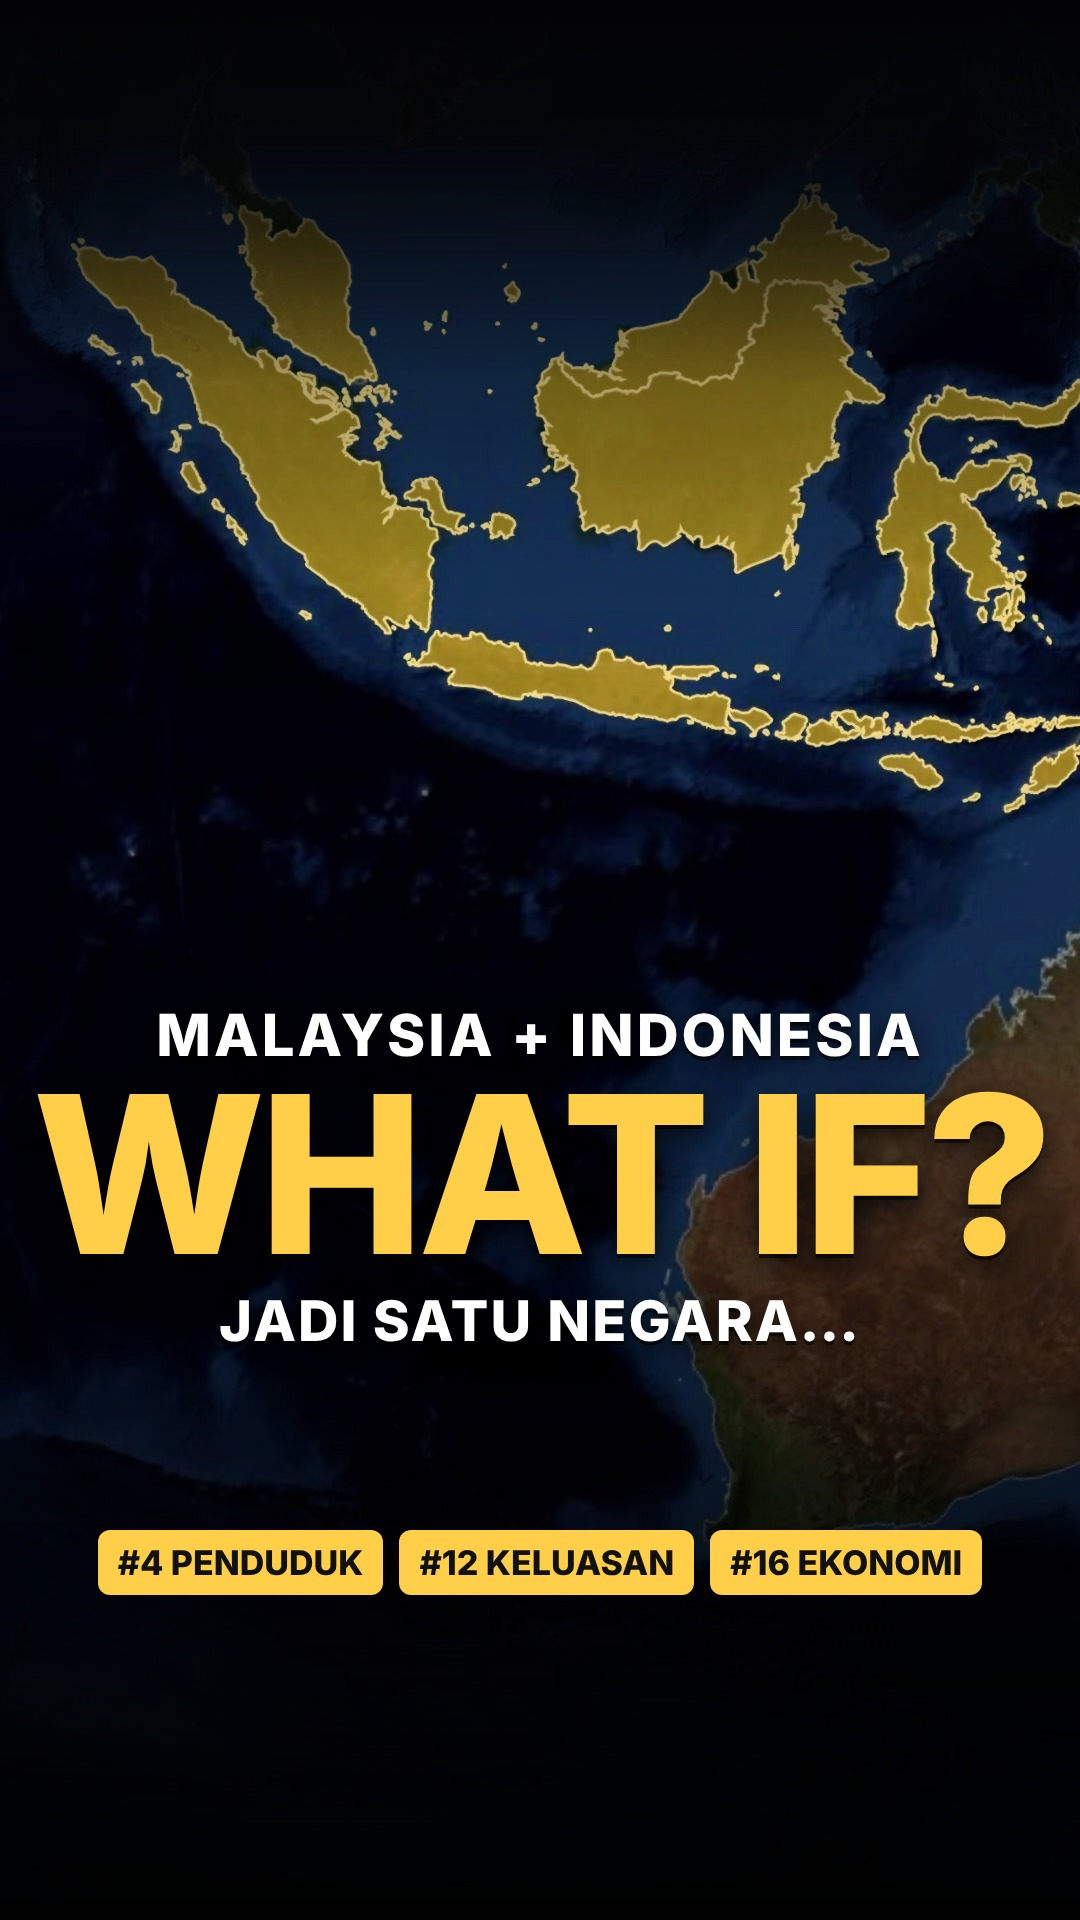
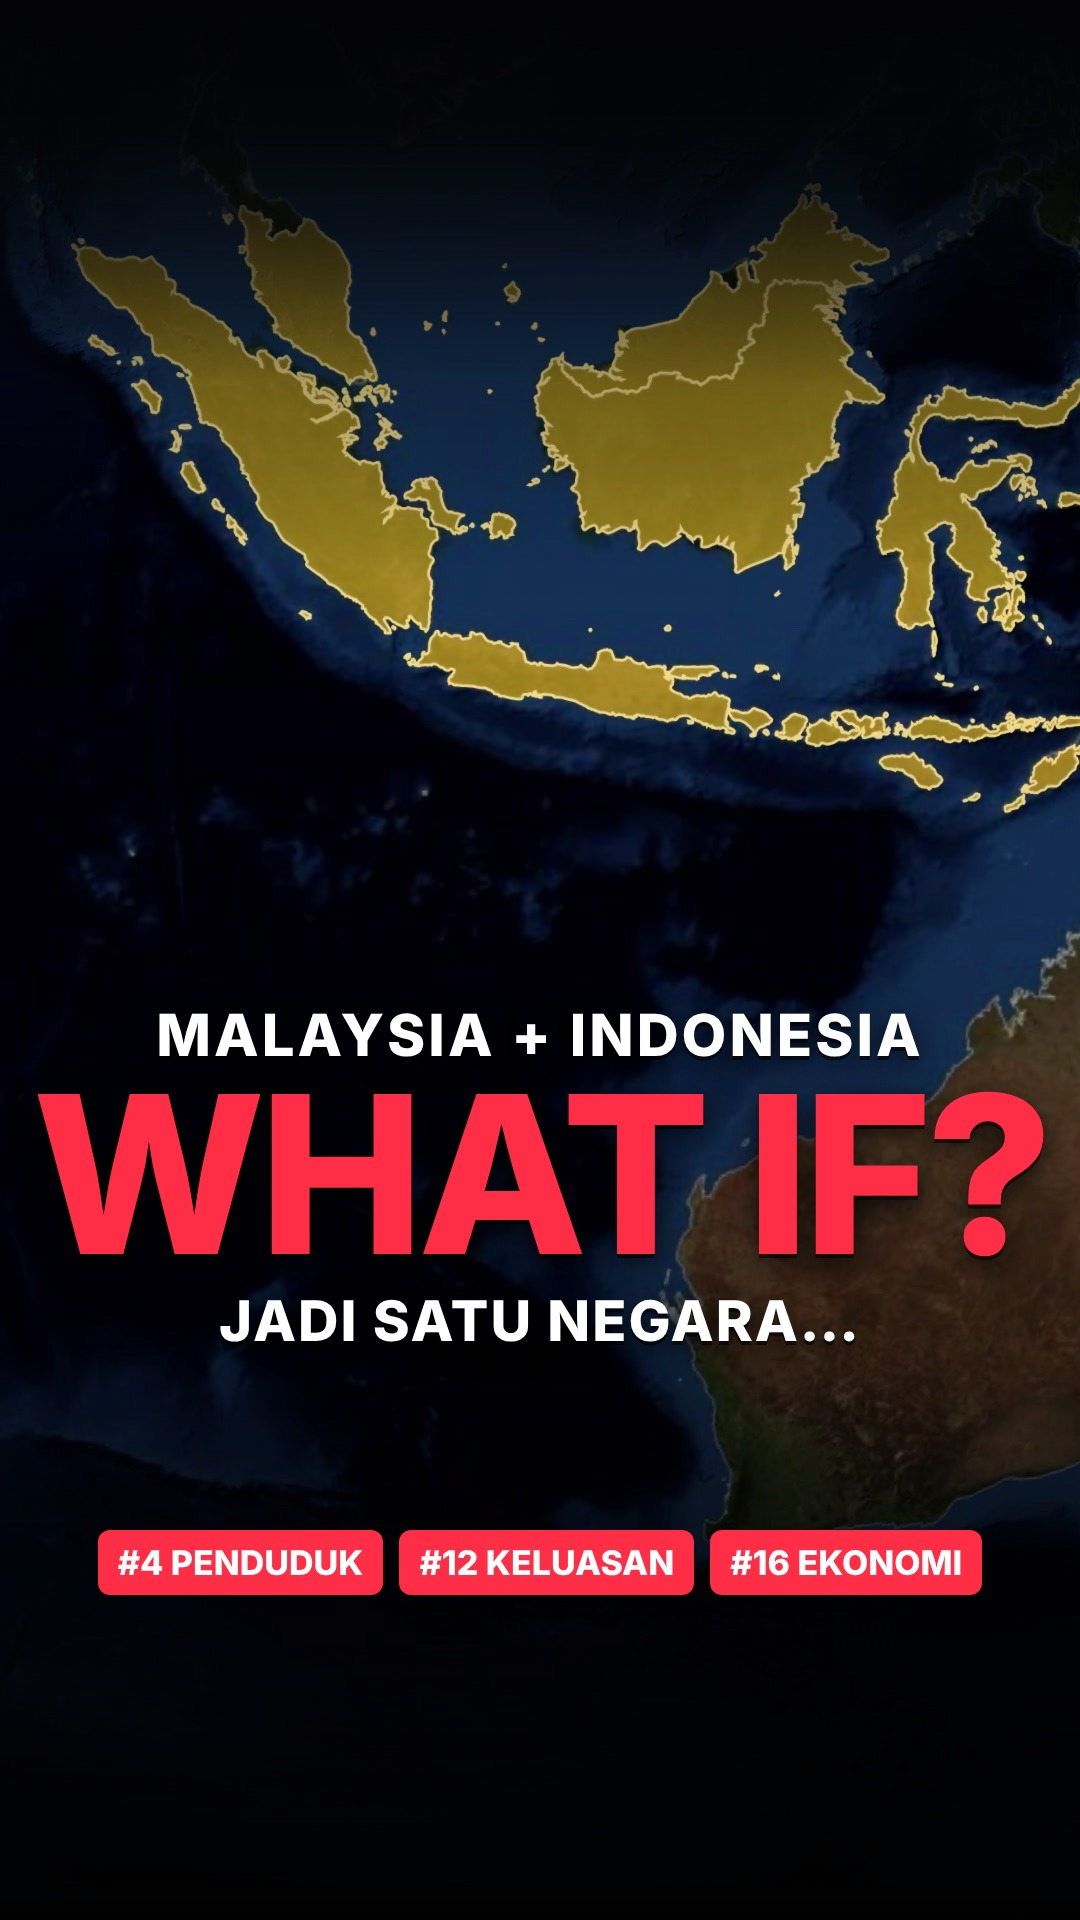
whatif-mi-video: red cover title
Claude-Session: https://claude.ai/code/session_01GRVCpWmiskqov5jCfdMsbZ

Changed region(s): [[0.0917, 0.7812, 0.9167, 0.8438], [0.0306, 0.5625, 0.6722, 0.6562], [0.7028, 0.5625, 0.9778, 0.6562]]

diff --git a/whatif-mi-video/boards/cover.html b/whatif-mi-video/boards/cover.html
@@ -5,8 +5,8 @@
 .bg{position:absolute;inset:0;background:url(cover-bg.jpg) center/cover}
 .sh{position:absolute;inset:0;background:linear-gradient(rgba(0,0,0,.55),rgba(0,0,0,0) 30%,rgba(0,0,0,.15) 55%,rgba(0,0,0,.8))}
 .t{position:absolute;top:1000px;left:0;right:0;text-align:center;color:#fff;text-shadow:0 4px 0 rgba(0,0,0,.55),0 8px 30px rgba(0,0,0,.8)}
-.k{font:800 58px Inter;letter-spacing:3px}.big{font:800 220px/0.95 Inter;letter-spacing:-6px;color:#ffcf4a}.s{font:800 56px Inter;letter-spacing:2px;margin-top:8px}
-.chips{position:absolute;top:1530px;left:0;right:0;display:flex;justify-content:center;gap:16px}.chips span{font:800 34px Inter;color:#111;background:#ffcf4a;padding:12px 20px;border-radius:12px}
+.k{font:800 58px Inter;letter-spacing:3px}.big{font:800 220px/0.95 Inter;letter-spacing:-6px;color:#ff2d46}.s{font:800 56px Inter;letter-spacing:2px;margin-top:8px}
+.chips{position:absolute;top:1530px;left:0;right:0;display:flex;justify-content:center;gap:16px}.chips span{font:800 34px Inter;color:#fff;background:#ff2d46;padding:12px 20px;border-radius:12px}
 </style></head><body><div class="bg"></div><div class="sh"></div>
 <div class="t"><div class="k">MALAYSIA + INDONESIA</div><div class="big">WHAT IF?</div><div class="s">JADI SATU NEGARA…</div></div>
 <div class="chips"><span>#4 PENDUDUK</span><span>#12 KELUASAN</span><span>#16 EKONOMI</span></div></body></html>
